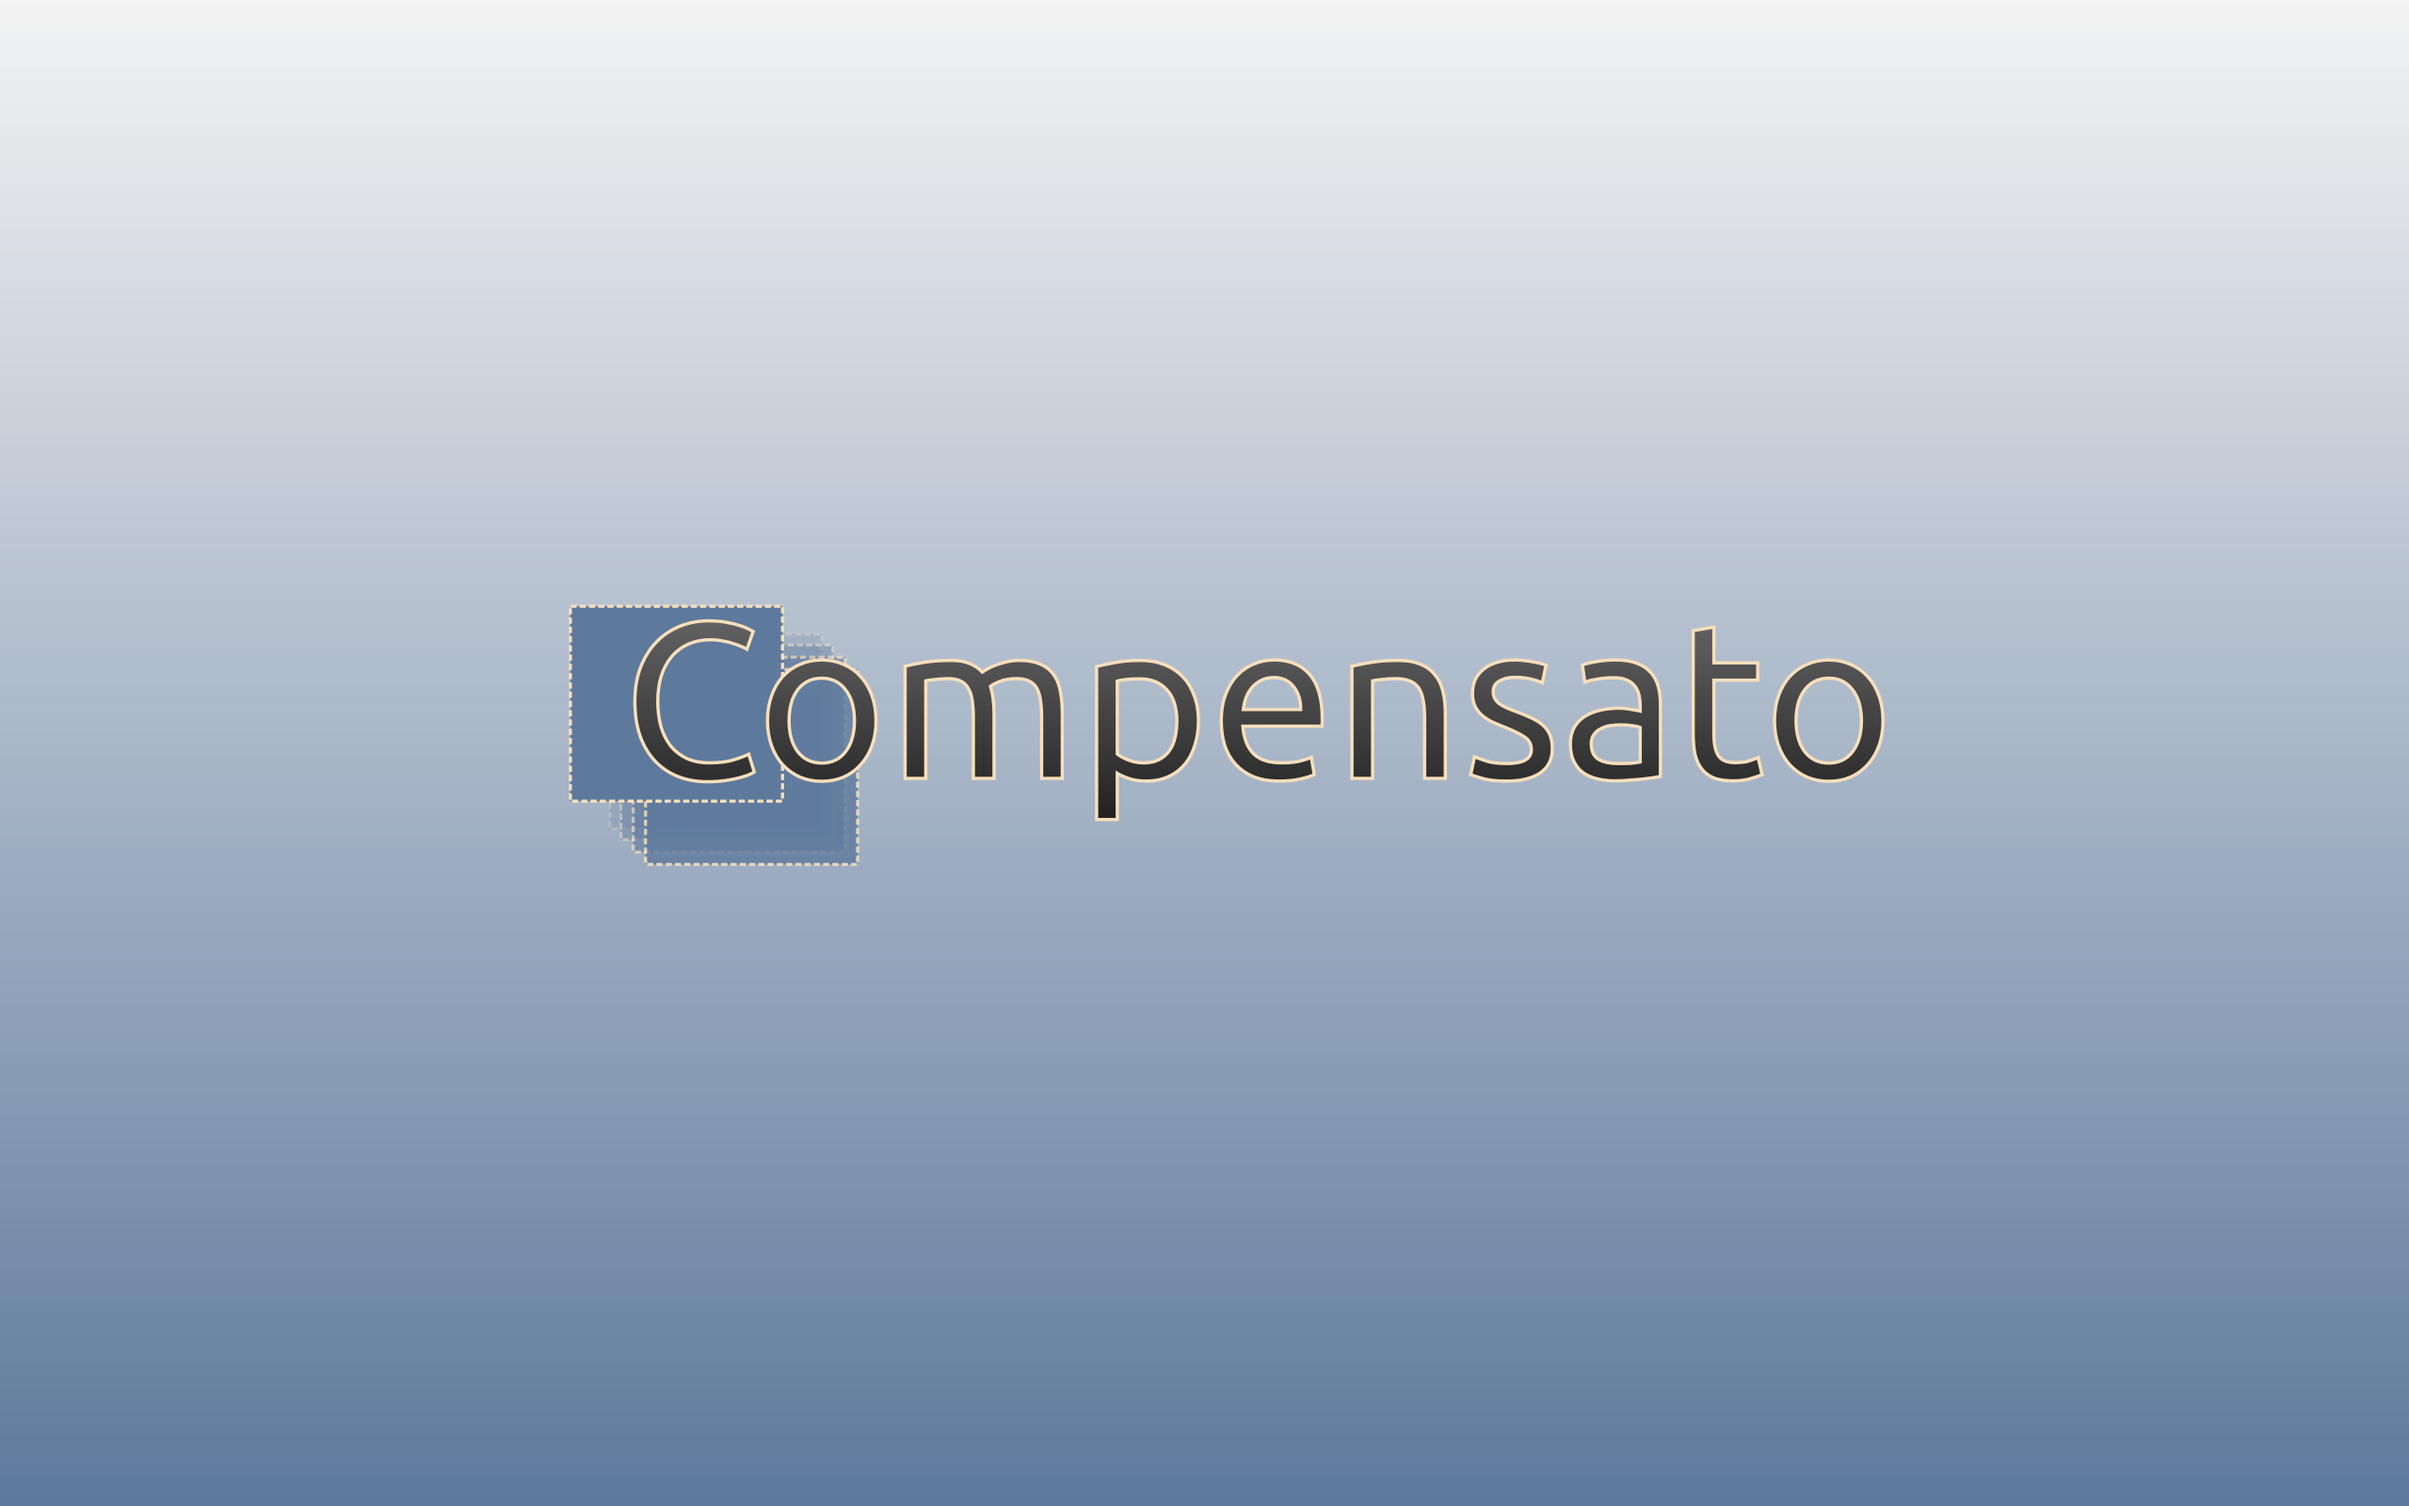
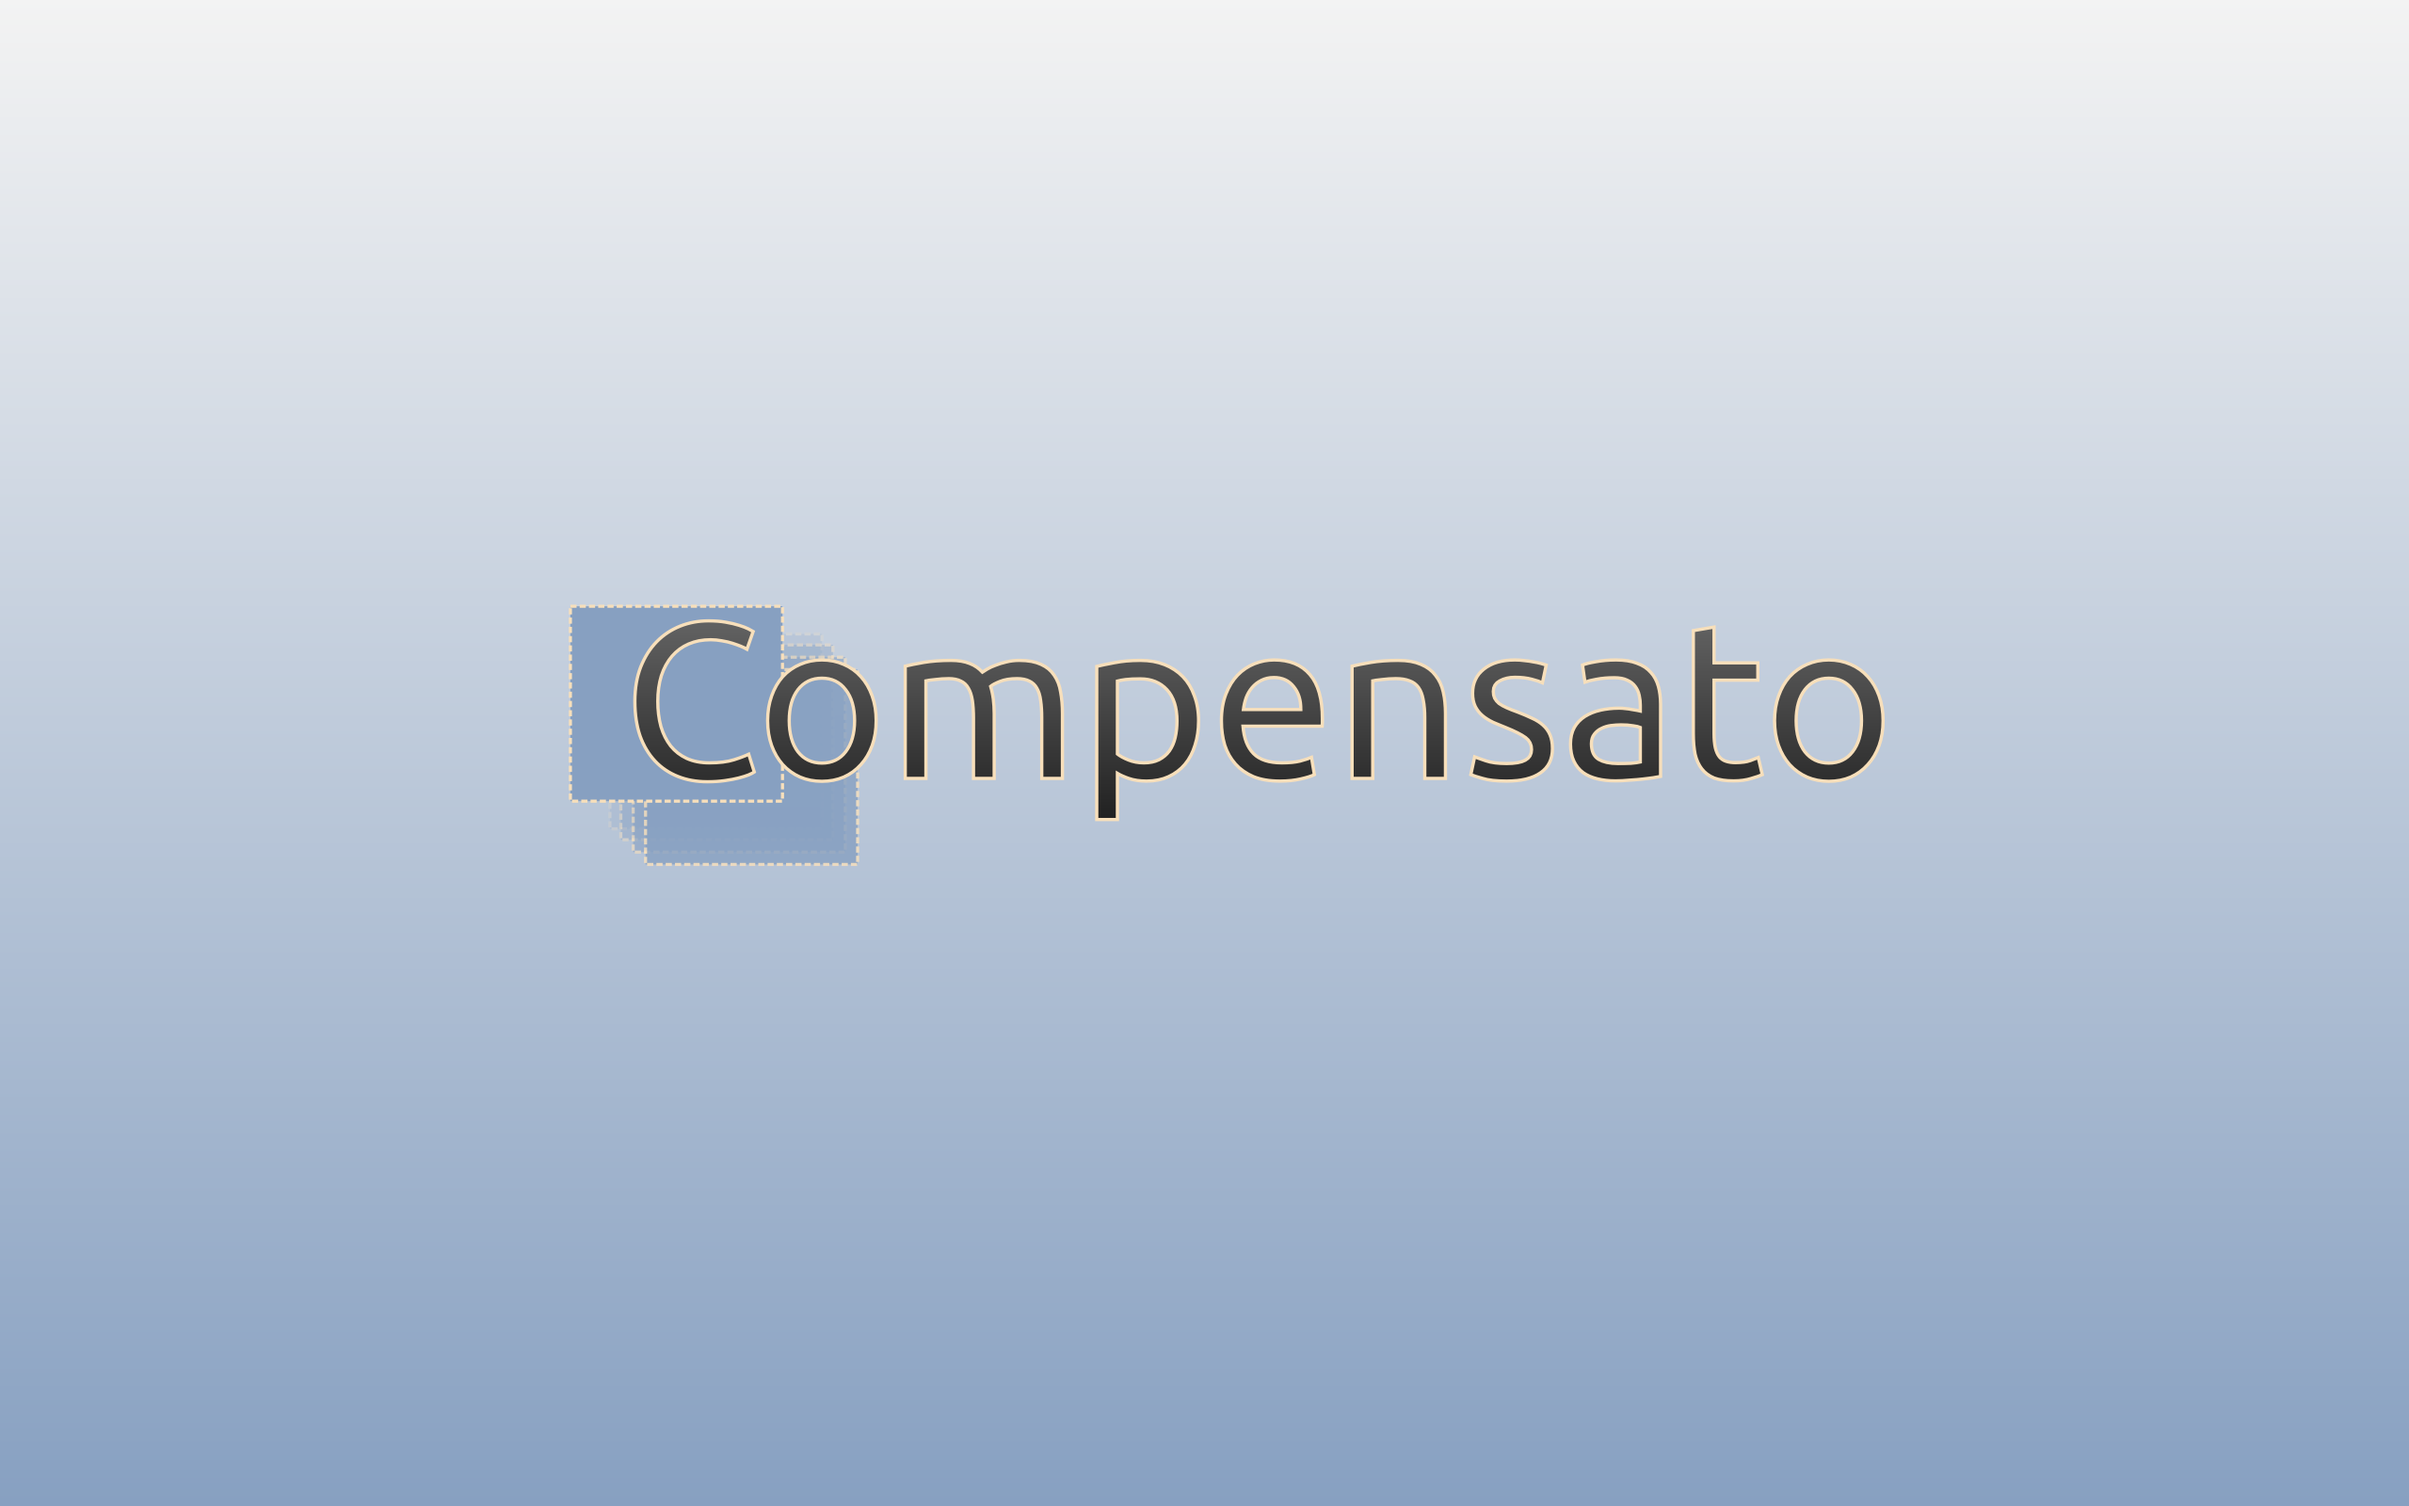
More design and color changes. Both in the app and in live_prep

diff --git a/app/assets/stylesheets/application.css b/app/assets/stylesheets/application.css
@@ -13,7 +13,7 @@
  */
 
 body{
-	background-color: #f7dfbb;
+	background-color: #ffffff;
 	font-family: arial;
 	margin: 0px;
 	padding: 10px;
@@ -35,6 +35,7 @@ a:visited{
 }
 
 header{
+	
 }
 
 header ul{
@@ -45,6 +46,10 @@ header li{
 	float: left;
 	margin: 0px 0px 0px 20px;
 	font-size: 40px;
+}
+
+.mainHeaderLogo{
+	margin: 0px 0px 0px 6%;
 }
 
 .mainAction{
@@ -95,7 +100,7 @@ header li{
 div#informationalDisplay{
 	margin: 20px 0px 0px 0px;
 	padding:10px 10px 10px 30px;
-	background-color:#9b6f2b;
+	background-color:#AF986C;
 	color:#EBEBEB;
 	font-size: 15px;
 }
